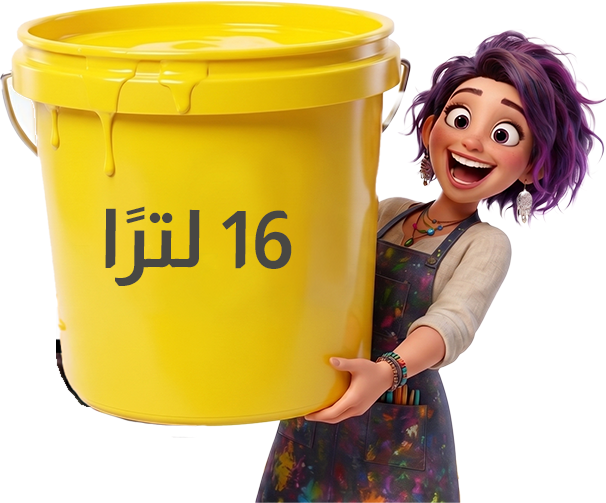
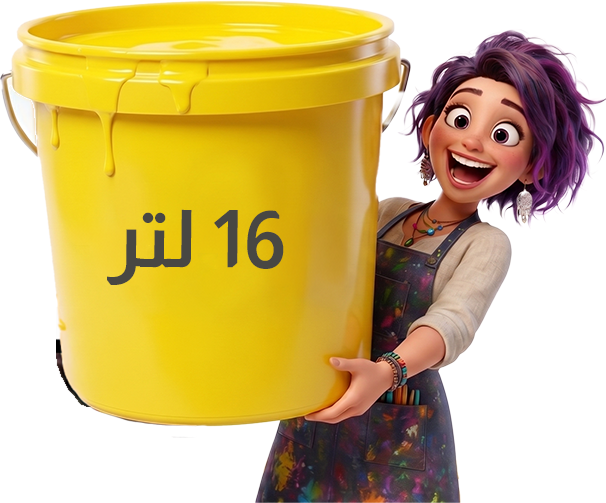
image caption qa

Changed region(s): [[0.1485, 0.4175, 0.505, 0.5666]]

diff --git a/index.html b/index.html
@@ -669,7 +669,7 @@
            SCREEN 6 — QUES4A
            Figma: 7:526 main | 9:1183 help | 9:1222 tryagain | 9:1264 correct | 9:1309 incorrect
            Multi-select radio — correct: {2,4} (2/3=16/X and 3/2=X/16)
-           q4-stav.png — clean Arabic export ("16 لترًا"), reused by Q4b/Q4c
+           q4-stav.png — clean Arabic export ("16 لتر"), reused by Q4b/Q4c
            ============================================================ -->
 <section class="screen" data-q-state="" data-q4-help="false" data-q4-state="main" data-screen="7" id="screen-q4">
 <!-- אודיו קריינות שאלה 4 -->
@@ -1059,7 +1059,7 @@
 <!-- טקסט קריינות — Live HTML, node 8:117
              Assistant SemiBold 600, 33.333px, right=37px, top=42px -->
 <div class="slide8-text" dir="rtl">
-<p>ذكَّرِتْ نسرين أصدقاءَها بأنّ هناك درجات أخرى مِن اللون الأخضر</p>
+<p>ذكَّرَتْ نسرين أصدقاءَها بأنّ هناك درجات أخرى مِن اللون الأخضر</p>
 <p>في الرسم، بالإضافة إلى درجة أخضر الغابة،</p>
 <p>وأنّهُ يَجِب تحضير خلطات ملائمة لها أيضًا.</p>
 </div>
@@ -1102,10 +1102,10 @@
 <!-- גרפיקת תערובות — Figma TAAROVET_B + TAAROVET_A
              images re-exported clean (no baked text) — captions
              are now live HTML, positioned above each graphic -->
-<p class="q5-taarovet-b-caption" dir="rtl">الخليط "ب" - النسبة 13:5</p>
-<img alt='الخليط "ب" - النسبة 13:5' class="q5-taarovet-b" draggable="false" src="img/mixB.png"/>
-<p class="q5-taarovet-a-caption" dir="rtl">الخليط "أ" - النسبة 3:2</p>
-<img alt='الخليط "أ" - النسبة 3:2' class="q5-taarovet-a" draggable="false" src="img/mixa.png"/>
+<p class="q5-taarovet-b-caption" dir="rtl">الخليط "ب"- النسبة 13:5</p>
+<img alt='الخليط "ب"- النسبة 13:5' class="q5-taarovet-b" draggable="false" src="img/mixB.png"/>
+<p class="q5-taarovet-a-caption" dir="rtl">الخليط "أ"- النسبة 3:2</p>
+<img alt='الخليط "أ"- النسبة 3:2' class="q5-taarovet-a" draggable="false" src="img/mixa.png"/>
 <!-- טקסט שאלה — Figma 8:392, right:234 top:174 -->
 <div class="q5-question" dir="rtl">
 <p><strong>5. بدأ الطلّاب بخلط خلطات إضافيّة مِن درجات اللون الأخضر. في أيّ خليط سيكون اللون الأصفر أكثر بُروزًا؟</strong></p>
@@ -1347,7 +1347,7 @@
 </button>
 <!-- נרטיב ימין (node 8:617): right=217px top=196px -->
 <div class="q7-narration" dir="rtl">
-<p>بدأ الطلّاب بالرسم على الجدار. عندما نفدَ خليط درجة</p>
+<p>بدأ الطلّاب بالرسم على الجدار. عندما نفذَ خليط درجة</p>
 <p>"أخضر الغابة" الذي حضَّروهُ، حَسَبوا أنّ 28 لترًا</p>
 <p>إضافيًّا مِن نفس الدرجة، ستكون كافيةً لإكمال الرسمة.</p>
 <p>تُباع في المتجر أوعية مغلقة فقط</p>
@@ -1390,8 +1390,8 @@
 <!-- איור גלונים — ILLU_QUES7 1: left:1209 top:523 w:489 h:244
              re-exported clean (no baked text) — captions are live HTML -->
 <img alt="" class="q7-illu" draggable="false" src="img/q7-illu.png"/>
-<p class="q7-illu-caption q7-illu-caption-yellow" dir="rtl">2 لترَيْن</p>
-<p class="q7-illu-caption q7-illu-caption-blue" dir="rtl">5 لترات</p>
+<p class="q7-illu-caption q7-illu-caption-yellow" dir="rtl">2 لتر</p>
+<p class="q7-illu-caption q7-illu-caption-blue" dir="rtl">5 لتر</p>
 <!-- word bank — 4 chips at top≈585 -->
 <div class="q7-chips">
 <div class="q7-chip" data-word="6" draggable="true" onclick="q7ChipClick(event,'6')" ondragend="q7DragEnd(event)" ondragstart="q7DragStart(event,'6')">
@@ -1465,7 +1465,7 @@
 </button>
 <!-- נרטיב ימין (right=217px top=196px) -->
 <div class="q7b-narration" dir="rtl">
-<p>بدأ الطلّاب بالرسم على الجدار. عندما نفدَ خليط درجة</p>
+<p>بدأ الطلّاب بالرسم على الجدار. عندما نفذَ خليط درجة</p>
 <p>"أخضر الغابة" الذي حضَّروهُ، حَسَبوا أنّ 28 لترًا</p>
 <p>إضافيًّا مِن نفس الدرجة، ستكون كافيةً لإكمال الرسمة.</p>
 <p>تُباع في المتجر أوعية مغلقة فقط</p>
@@ -1502,8 +1502,8 @@
 <!-- איור גלונים — same as QUES7: left:1209 top:523 w:489 h:244
              re-exported clean (no baked text) — captions are live HTML -->
 <img alt="" class="q7b-illu" draggable="false" src="img/q7-illu.png"/>
-<p class="q7-illu-caption q7-illu-caption-yellow" dir="rtl">2 لترَيْن</p>
-<p class="q7-illu-caption q7-illu-caption-blue" dir="rtl">5 لترات</p>
+<p class="q7-illu-caption q7-illu-caption-yellow" dir="rtl">2 لتر</p>
+<p class="q7-illu-caption q7-illu-caption-blue" dir="rtl">5 لتر</p>
 <!-- word bank — 4 chips: "30","28","18","12" at left:260/449/638/827 top:529 -->
 <div class="q7b-chips">
 <div class="q7b-chip" data-word="30" draggable="true" onclick="q7bChipClick(event,'30')" ondragend="q7bDragEnd(event)" ondragstart="q7bDragStart(event,'30')">

diff --git a/css/style-ar.css b/css/style-ar.css
@@ -1142,7 +1142,7 @@
   width: 190px;
 }
 .q7-illu-caption-blue {
-  left: 1465px; top: 650px;
+  left: 1465px; top: 610px;
   width: 220px;
 }
 /* These captions had no entrance animation of their own, so they
